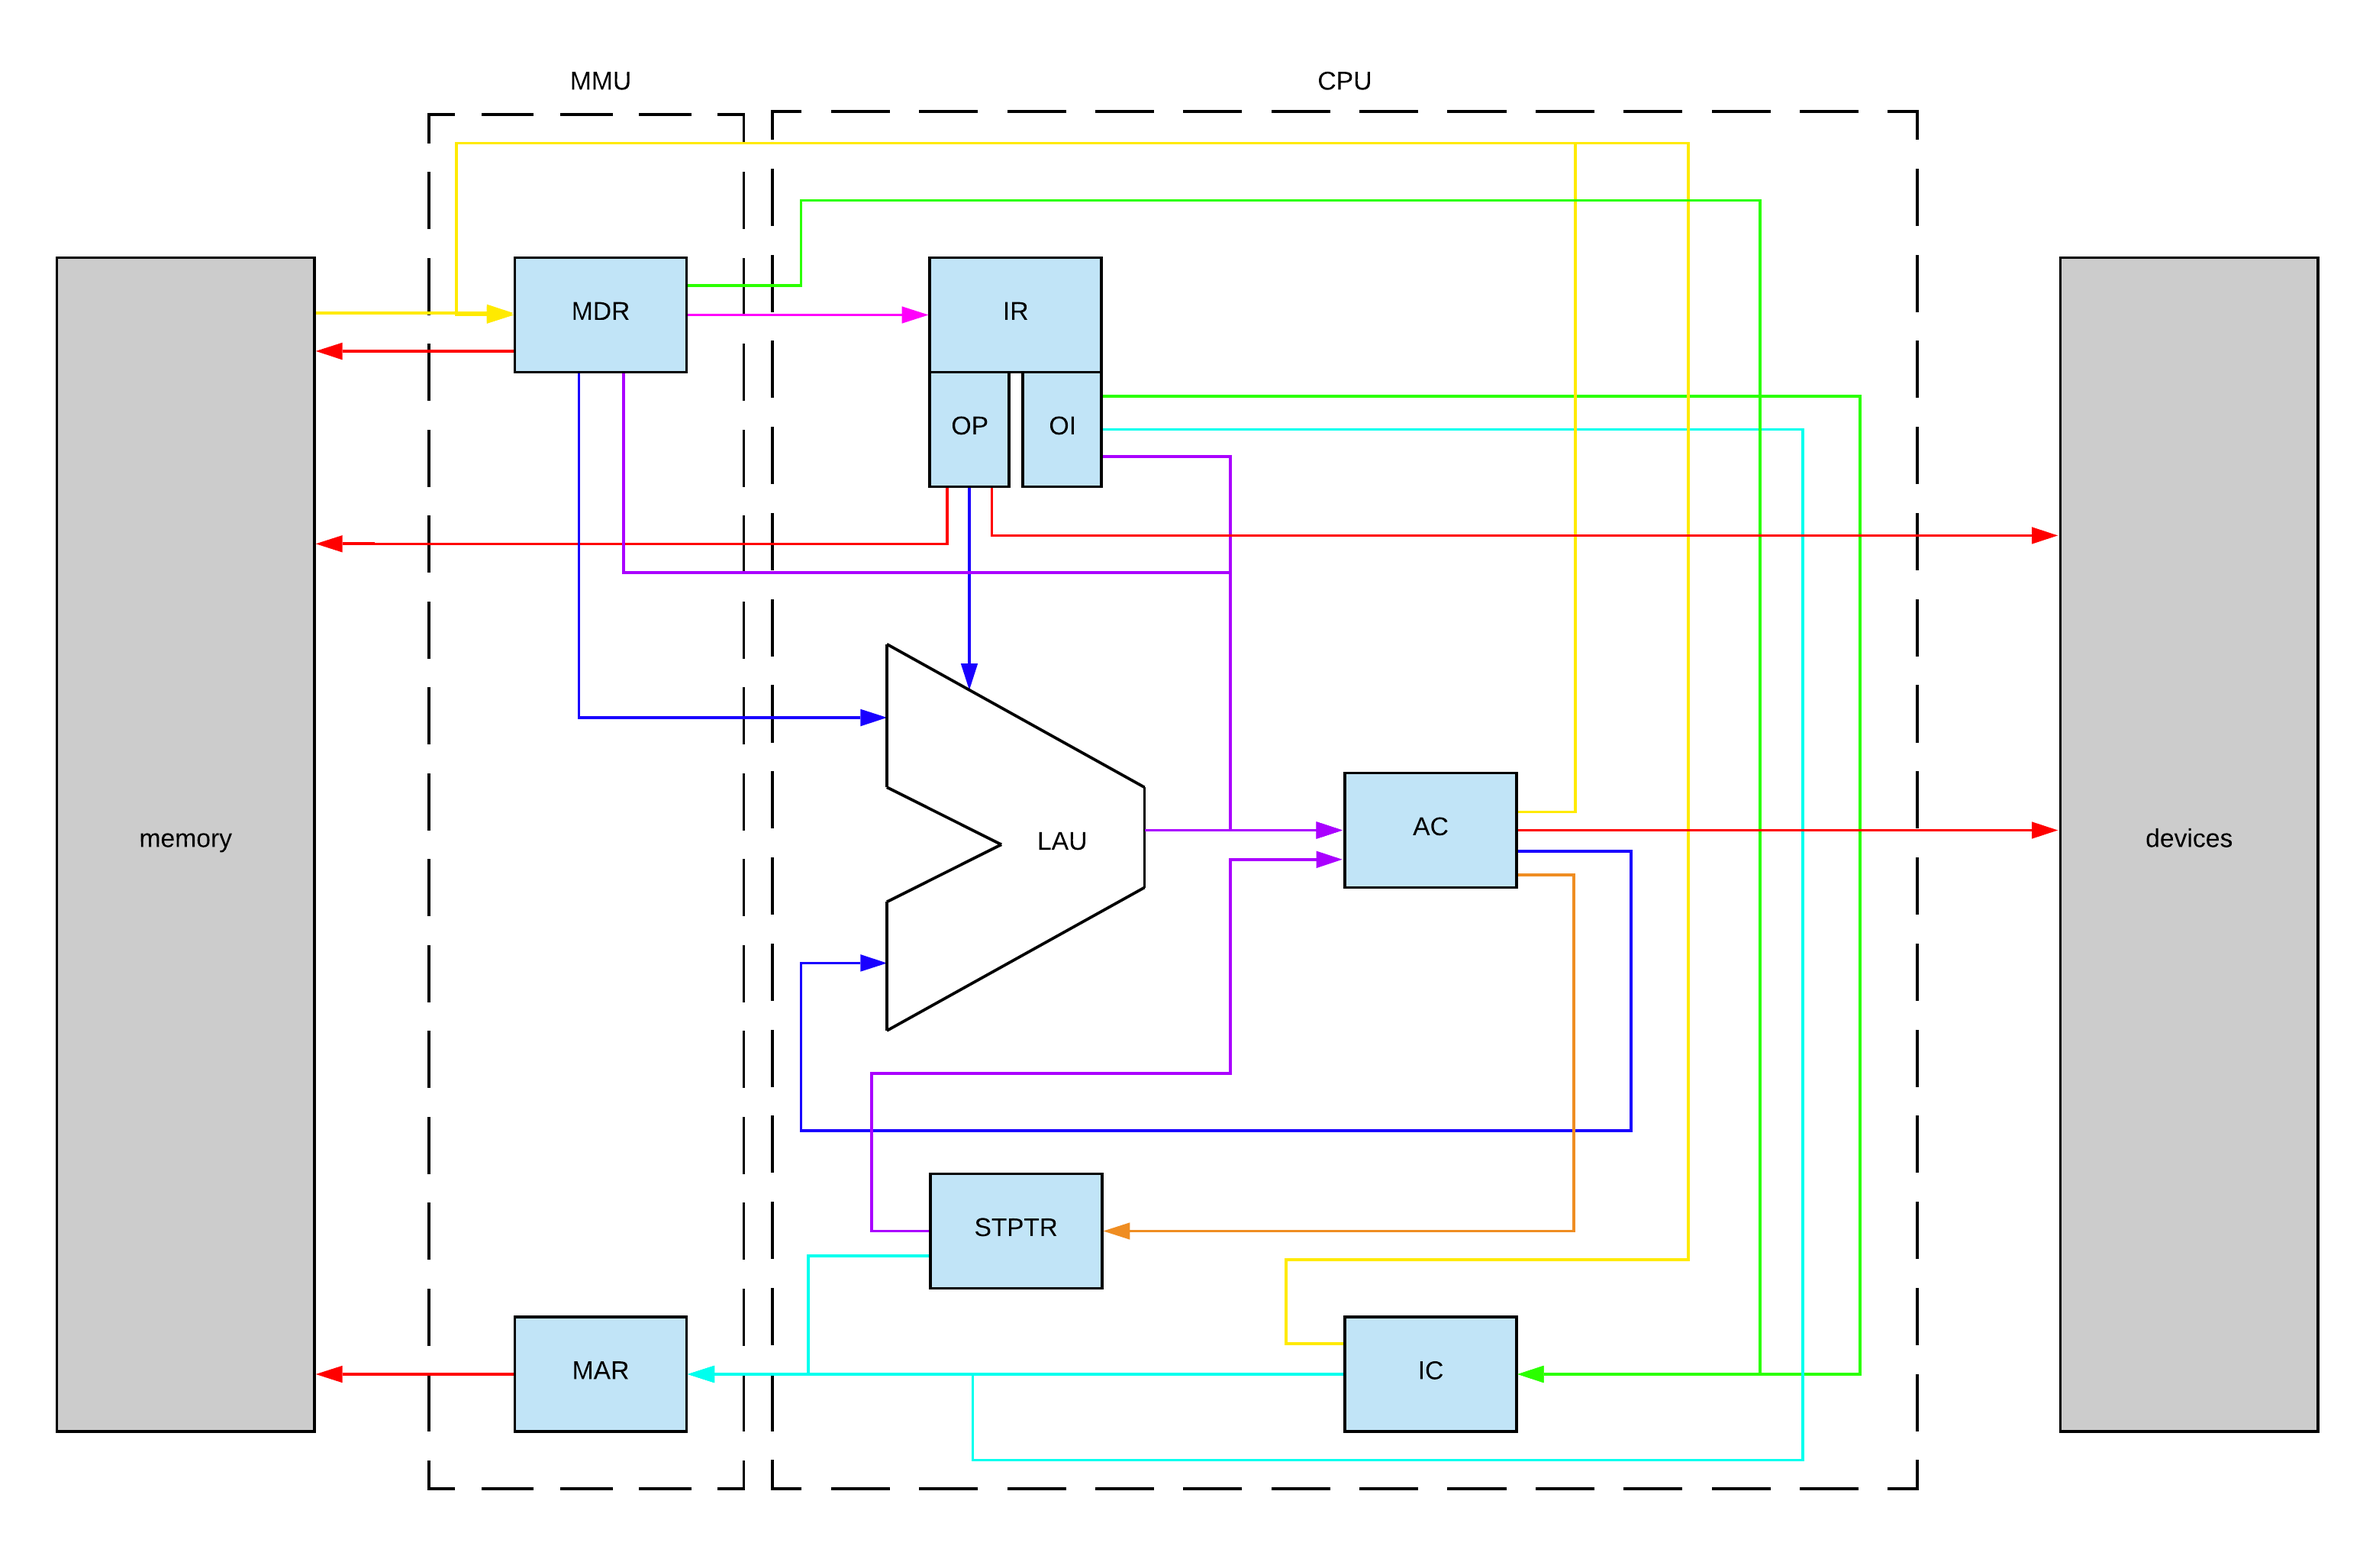
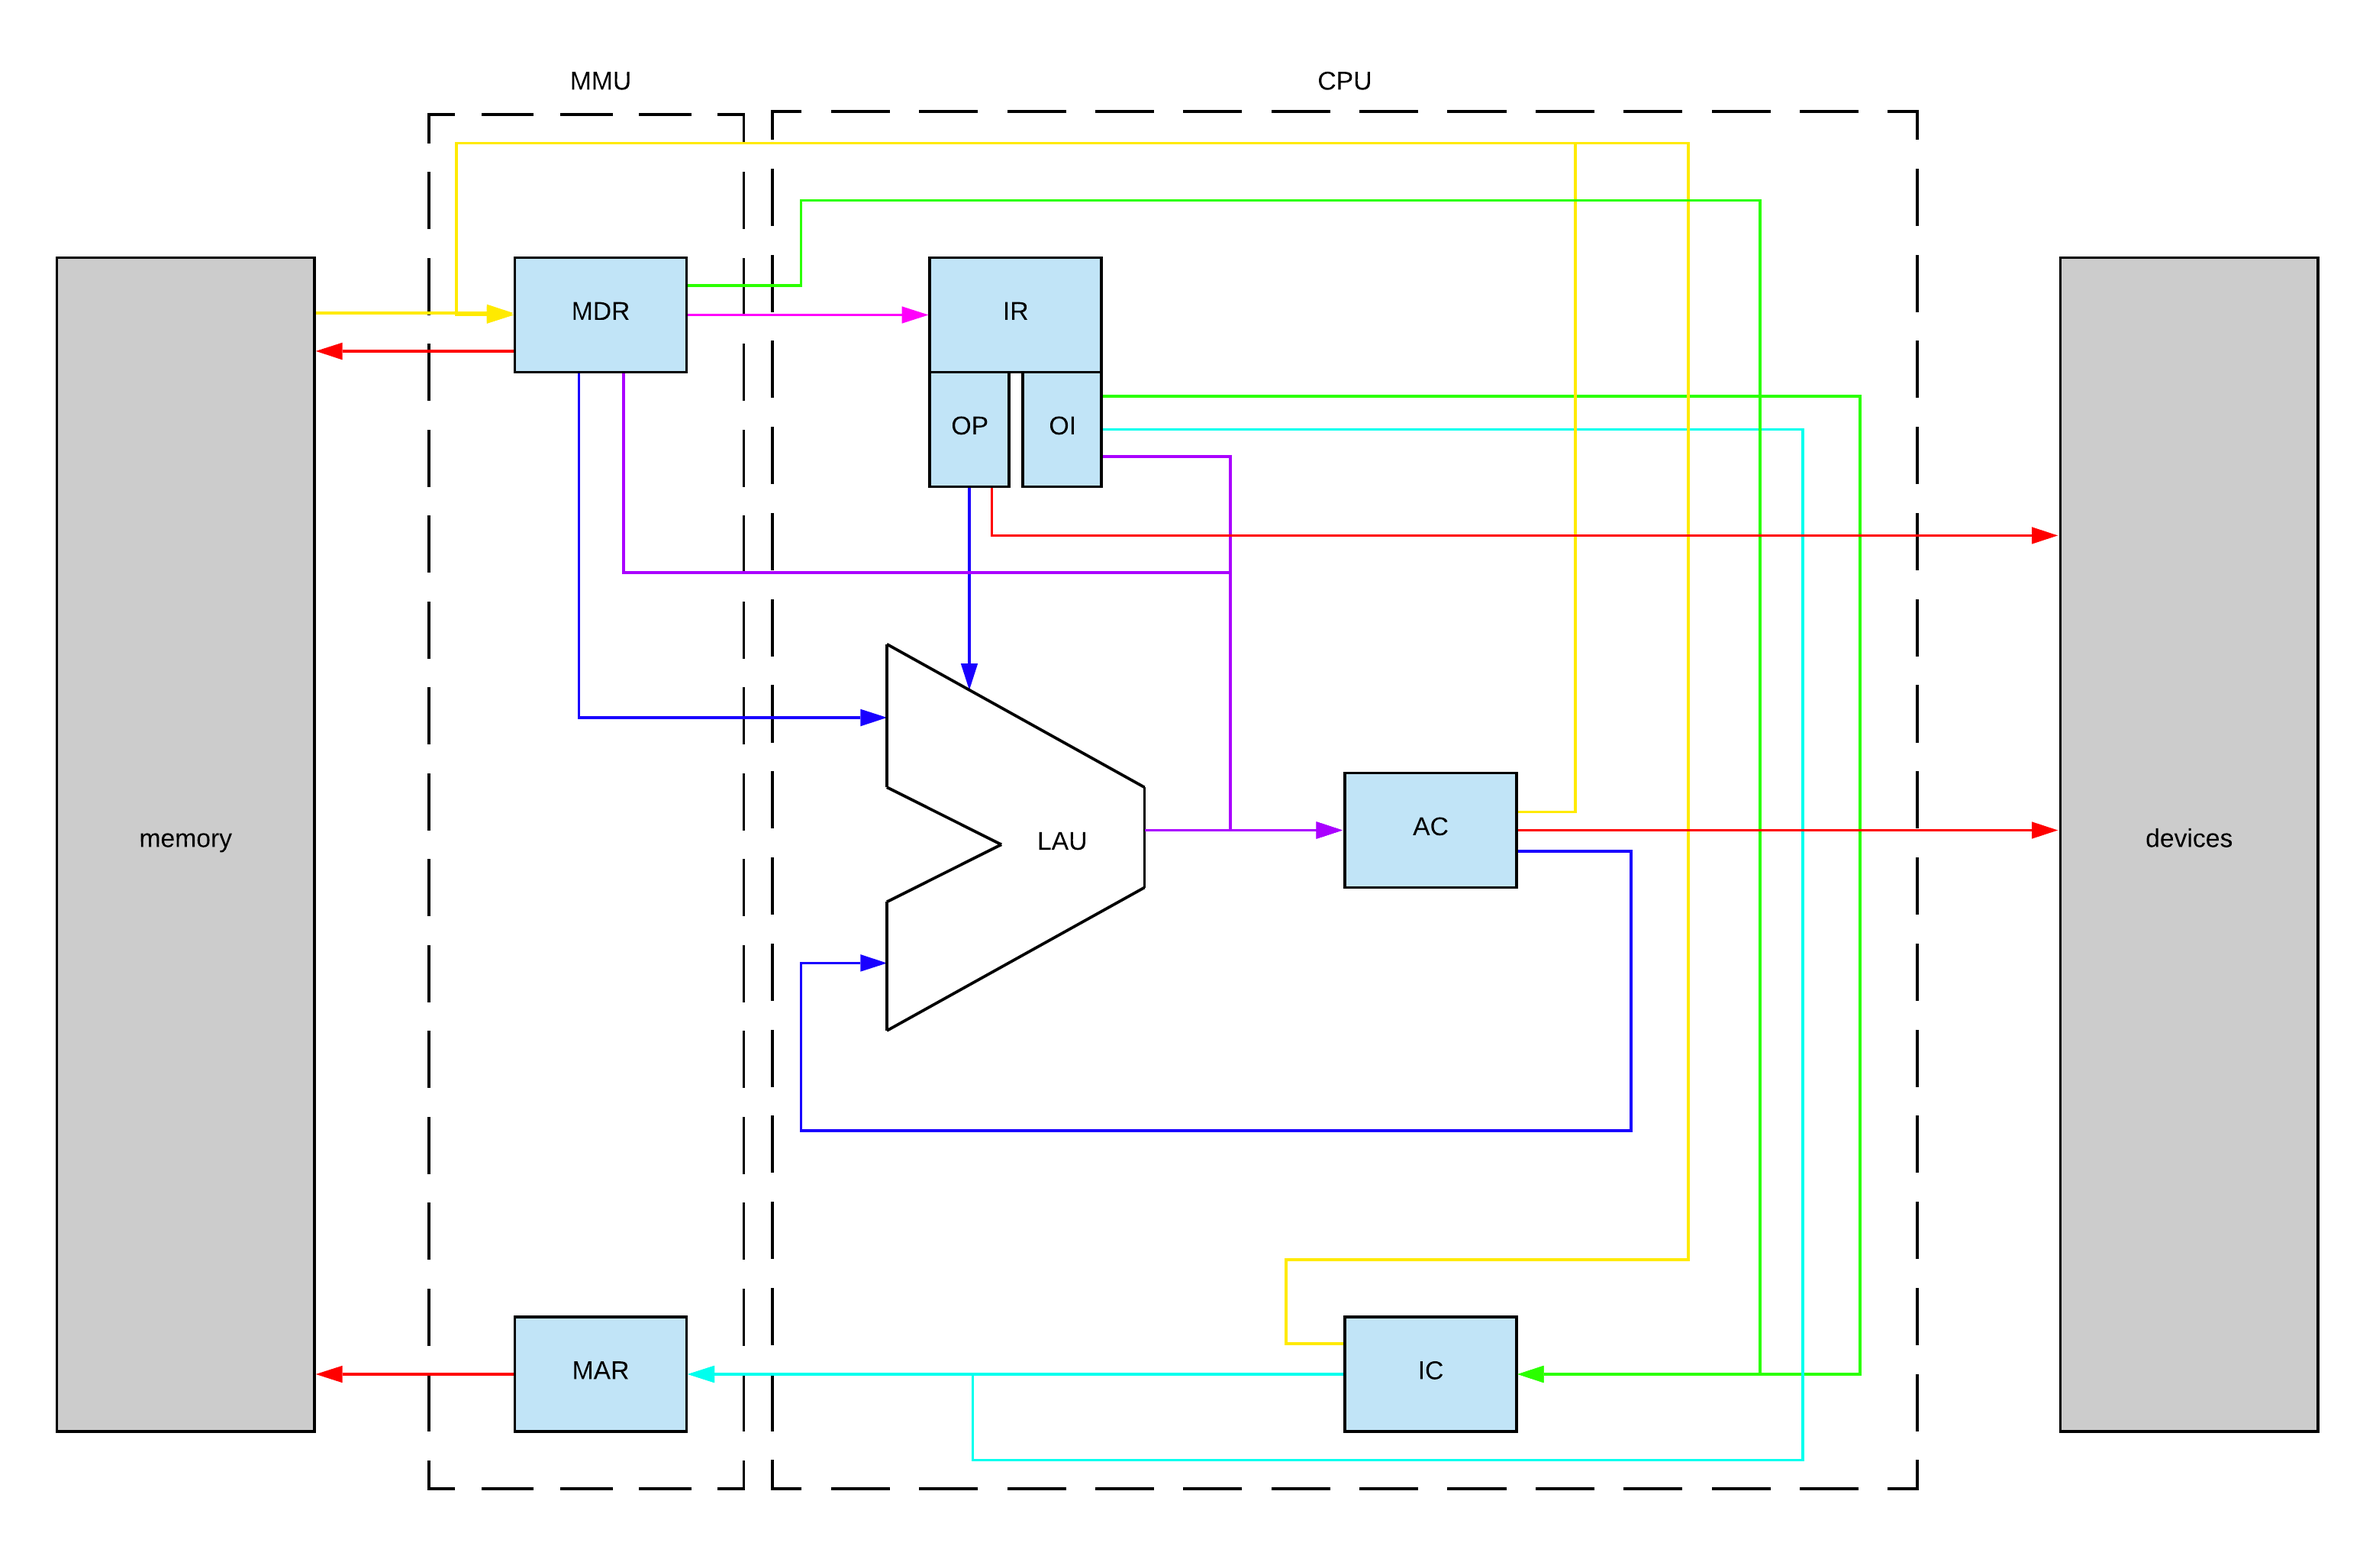
Taking stack pointer register out

Changed region(s): [[0.3739, 0.7467, 0.4674, 0.84], [0.5297, 0.5289, 0.5609, 0.56]]

diff --git a/MVN/MVN.py b/MVN/MVN.py
@@ -27,7 +27,7 @@ class MVN:
 		self.OP=register.register()
 		self.OI=register.register()
 		self.AC=register.register()
-		self.STPTR=register.register(value=0x0ffe)
+		self.SP=0x0ffe
 		self.ula=ULA.ULA()
 		self.devs=[]
 		self.devs.append(device.device(0,0))
@@ -98,6 +98,10 @@ class MVN:
 	def get_mem(self):
 		self.MDR.set_value(self.mem.get_value(self.MAR.get_value()))
 
+	#Set memory value
+	def set_mem(self):
+		self.mem.set_value(self.MAR.get_value(), self.MDR.get_value())
+
 	#IC:=OI
 	def jp(self):
 		self.IC.set_value(self.OI.get_value())
@@ -128,7 +132,7 @@ class MVN:
 	def mm(self):
 		self.MAR.set_value(self.OI.get_value())
 		self.MDR.set_value(self.AC.get_value())
-		self.mem.set_value(self.MAR.get_value(), self.MDR.get_value())
+		self.set_mem()
 		self.IC.set_value(self.IC.get_value()+2)
 		return True
 
@@ -139,7 +143,7 @@ class MVN:
 	def sc(self):
 		self.MAR.set_value(self.OI.get_value())
 		self.MDR.set_value(self.IC.get_value()+2)
-		self.mem.set_value(self.MAR.get_value(), self.MDR.get_value())
+		self.set_mem()
 		self.IC.set_value(self.OI.get_value()+2)
 		return True
 
@@ -205,26 +209,34 @@ class MVN:
 		elif case(0x10):
 			#Get pointer
 			if self.OP.get_value()!=1: self.os_error(1,self.OP.get_value())
-			self.AC.set_value(self.STPTR.get_value())
+			self.MAR.set_value(self.SP)
+			self.get_mem()
+			self.AC.set_value(self.MDR.get_value())
 		elif case(0x11):
 			#Set pointer
 			if self.OP.get_value()!=1: self.os_error(1,self.OP.get_value())
 			self.MAR.set_value(self.MAR.get_value()-2)
 			self.get_mem()
-			self.STPTR.set_value(self.MDR.get_value())
+			self.MAR.set_value(self.SP)
+			self.set_mem()
 		elif case(0x12):
 			#Get stacktop
 			if self.OP.get_value()!=1: self.os_error(1,self.OP.get_value())
-			self.MAR.set_value(self.STPTR.get_value())
+			self.MAR.set_value(self.SP)
+			self.get_mem()
+			self.MAR.set_value(self.MDR.get_value())
 			self.get_mem()
 			self.AC.set_value(self.MDR.get_value())
 		elif case(0x13):
 			#Set stacktop
 			if self.OP.get_value()!=1: self.os_error(1,self.OP.get_value())
+			self.MAR.set_value(self.SP)
+			self.get_mem()
+			self.AC.set_value(self.MDR.get_value())
 			self.MAR.set_value(self.MAR.get_value()-2)
 			self.get_mem()
-			self.MAR.set_value(self.STPTR.get_value())
-			self.mem.set_value(self.MAR.get_value(), self.MDR.get_value())
+			self.MAR.set_value(self.AC.get_value())
+			self.set_mem()
 		elif case(2319):
 			if self.OP.get_value()!=0: self.os_error(0,self.OP.get_value())
 			print("2319! Temos um 2319!")
@@ -258,9 +270,7 @@ class MVN:
 	this to memory'''
 	def set_memory(self, guide):
 		for data in guide:
-			self.mem.set_value(int(data[0], 16), int(data[1], 16))
-
-	#Show memory values for addresses between start and stop
+			self.set_mem(w memory values for addresses between start and stop
 	def dump_memory(self, start, stop):
 		self.mem.show(start, stop)
 

diff --git a/MVN/memory.py b/MVN/memory.py
@@ -18,9 +18,11 @@ class memory:
 	def __init__(self, value=0x0000):
 		valid_value(value, MIN_VALUE, MAX_VALUE)
 		self.map=[]
-		for cont in range(MAX_ADDR//2+1):
+		for cont in range(MAX_ADDR//2):
 			self.map.append(address.address(2*cont, value//0x100))
 			self.map.append(address.address(2*cont+1, value-(value//0x100)*0x100))
+		self.map.append(address.address(MAX_ADDR-1, 0xff))
+		self.map.append(address.address(MAX_ADDR, 0xfc))
 
 	def get_value(self, addr):
 		valid_value(addr, MIN_ADDR, MAX_ADDR)
